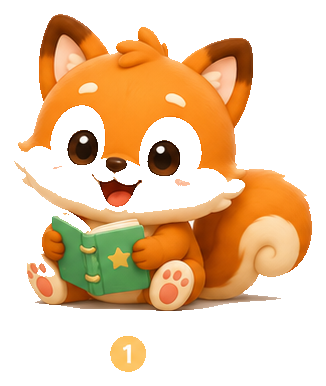
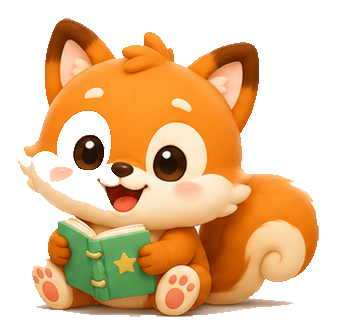
成长阶段4图按连通域真实边界重切(修被切缺) + 动态:点宠物有反应/庆祝升级星星粒子

diff --git a/math-analyzer.html b/math-analyzer.html
@@ -978,6 +978,13 @@
   @keyframes stThink { 0%,100%{ transform:scale(1) } 50%{ transform:scale(1.05) rotate(-2deg) } }
   @keyframes stFade { 0%,100%{ opacity:.6 } 50%{ opacity:1 } }
   @media (prefers-reduced-motion: reduce) { .buddy-big[class*="st-"] { animation:none !important; } }
+  /* 点宠物有反应 + 星星粒子 */
+  .buddy-big { cursor:pointer; }
+  .buddy-big.poke { animation:pokeJump .5s ease !important; }
+  @keyframes pokeJump { 0%{ transform:scale(1) } 30%{ transform:scale(1.12) translateY(-9px) } 60%{ transform:scale(.96) } 100%{ transform:scale(1) } }
+  .lvup-card { position:relative; overflow:hidden; }
+  .fox-star { position:absolute; bottom:32%; pointer-events:none; z-index:6; will-change:transform,opacity; animation:starRise 1.3s ease-out forwards; }
+  @keyframes starRise { 0%{ opacity:0; transform:translateY(0) scale(.4) } 20%{ opacity:1 } 100%{ opacity:0; transform:translateY(-105px) scale(1.15) } }
   /* ===== 成长阶段卡 ===== */
   .growth-card2 { display:flex; align-items:center; gap:12px; background:var(--card); border:var(--card-border); border-radius:var(--inner-radius); box-shadow:var(--card-shadow); padding:12px; margin-bottom:14px; }
   .gc-img { width:64px; height:64px; flex:0 0 auto; object-fit:contain; }
@@ -3414,7 +3421,7 @@ function showLevelUp(li) {
   const p = petOf(selectedPetId());
   if ($('lvup-pet')) $('lvup-pet').innerHTML = p ? petFace(p.id) : '🎉';
   if ($('lvup-lv')) $('lvup-lv').textContent = 'Lv.' + li.level + ' ' + li.name;
-  if ($('levelup-modal')) $('levelup-modal').style.display = 'flex';
+  if ($('levelup-modal')) { $('levelup-modal').style.display = 'flex'; const c = $('levelup-modal').querySelector('.lvup-card'); setTimeout(function () { spawnStars(c, 16); }, 100); }
 }
 function checkLevelUp(li) {
   const seen = DB.read(pKey('lvSeen'), 0);
@@ -3551,7 +3558,7 @@ function renderHome() {
     // 宠物主角（狐狸：状态表情 + 文案气泡 + 动画；其它：单图）
     '<div class="buddy-stage" style="--tint:' + p.tint + '">'
     + (isFox ? '<div class="state-bubble">' + esc(FOX_STATES[stKey].msg) + '</div>' : '')
-    + '<div class="buddy-big ' + (isFox ? FOX_STATES[stKey].anim : '') + '">'
+    + '<div class="buddy-big ' + (isFox ? FOX_STATES[stKey].anim : '') + '" id="home-pet-big" onclick="petPoke(this)">'
     + (isFox ? '<img class="pa-img" alt="" src="' + FOX_STATES[stKey].img + '">' : petFace(id))
     + '</div>'
     + '<div class="pet-name-row"><span class="pet-name">' + esc(s.petName) + '</span>'
@@ -3586,11 +3593,33 @@ function renderHome() {
     + '<button class="btn-ghost" style="flex:1;" onclick="_selPending=selectedPetId();go(\'petselect\')">🔄 换伙伴</button></div>'
     + '<button class="btn-ghost btn-sm" style="width:100%;margin-top:8px;opacity:.7;" onclick="testLevelUp()">🧪 测试：升一级（点几下看狐狸换成长阶段）</button>';
   animateBar($('home-xpfill'), pct);
+  if (isFox && stKey === 'celebrate') { const big = $('home-pet-big'); if (big) setTimeout(function () { spawnStars(big, 12); }, 200); }
   checkLevelUp(li);   // 升级 → 弹窗 + 解锁阶段
 }
 // 测试按钮：一键升一级（补满当前级所需经验+1），方便快速看狐狸换成长阶段
 function testLevelUp() { const li = levelInfo(totalXP()); DB.write(pKey('bonusXP'), DB.read(pKey('bonusXP'), 0) + (li.need - li.into + 1)); renderHome(); }
 function testAddXP(n) { DB.write(pKey('bonusXP'), DB.read(pKey('bonusXP'), 0) + (n || 15)); renderHome(); }
+/* ---- 动态效果：星星粒子 + 点宠物有反应 ---- */
+function spawnStars(host, n) {
+  if (!host) return; n = n || 9;
+  for (let i = 0; i < n; i++) {
+    const s = document.createElement('span'); s.className = 'fox-star'; s.textContent = (i % 3 === 0) ? '⭐' : '✨';
+    s.style.left = (10 + Math.random() * 80) + '%';
+    s.style.fontSize = (12 + Math.random() * 14) + 'px';
+    s.style.animationDelay = (Math.random() * 0.35) + 's';
+    host.appendChild(s);
+    setTimeout(function () { s.remove(); }, 1500);
+  }
+}
+const POKE_LINES = ['嘿嘿，好痒～', '再陪我玩一下！', '我们一起加油呀！', '今天也要开心哦！', '摸摸头，超开心！', '最喜欢你啦！'];
+function petPoke(el) {
+  if (!el) return;
+  el.classList.remove('poke'); void el.offsetWidth; el.classList.add('poke');
+  setTimeout(function () { el.classList.remove('poke'); }, 520);
+  spawnStars(el, 6);
+  const b = document.querySelector('.state-bubble');
+  if (b) { const old = b.getAttribute('data-msg') || b.textContent; b.setAttribute('data-msg', old); b.textContent = POKE_LINES[Math.floor(Math.random() * POKE_LINES.length)]; setTimeout(function () { b.textContent = old; }, 1600); }
+}
 // 今日路径：小狐狸排好今天该做的几件事（作业用真数据，听写/错题为引导步骤）
 function renderTodayPath() {
   const el = $('today-path'); if (!el) return;
